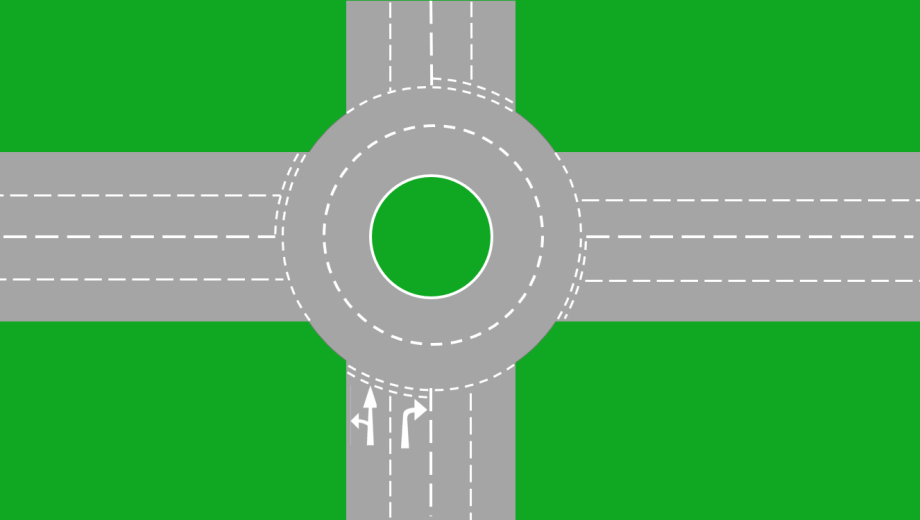
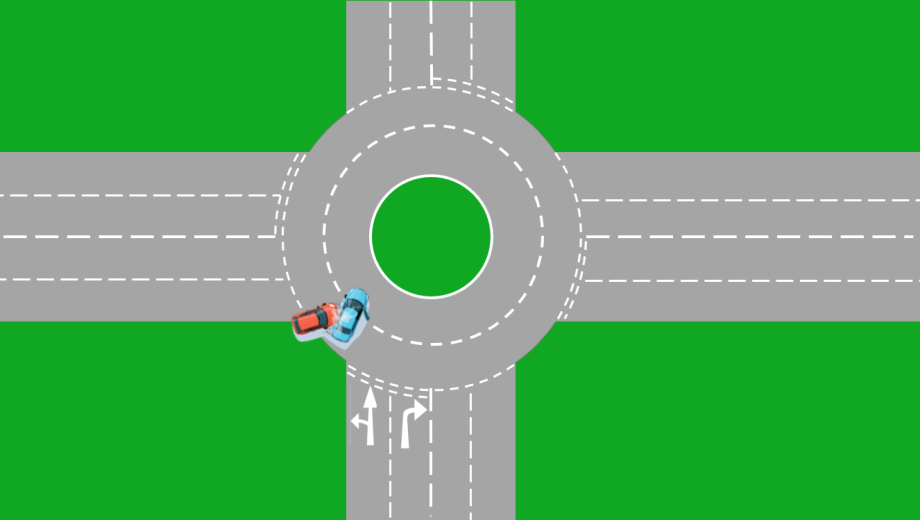
feat: added clock + car crash

Changed region(s): [[0.3043, 0.5538, 0.4261, 0.6769]]

diff --git a/script.js b/script.js
@@ -246,6 +246,44 @@ window.addEventListener("load", () => {
     }
   });
 
+  function showPopup() {
+    const popup = document.getElementById("timeUpPopup");
+    popup.style.opacity = 1;
+    popup.style.pointerEvents = "all";
+  }
+
+  let duration = 60; // seconds
+  let timerInterval;
+
+  function startTimer(seconds) {
+    duration = seconds;
+    updateDisplay();
+
+    timerInterval = setInterval(() => {
+      duration--;
+
+      updateDisplay();
+
+      if (duration <= 0) {
+        clearInterval(timerInterval);
+        showPopup();
+      }
+    }, 1000);
+  }
+
+  function updateDisplay() {
+    const minutes = Math.floor(duration / 60);
+    const seconds = duration % 60;
+
+    const formatted =
+      `${minutes.toString().padStart(2, "0")}:` +
+      `${seconds.toString().padStart(2, "0")}`;
+
+    document.getElementById("timer").textContent = formatted;
+  }
+
+  startTimer(90);
+
   function isClose(pos1, pos2, tolerance = 50) {
     return (
       Math.abs(pos1.x - pos2.x) < tolerance &&

diff --git a/style.css b/style.css
@@ -140,3 +140,55 @@ button {
   border-left: 8px solid blue;
   transform: translateY(-50%);
 }
+
+#timer {
+  position: fixed;
+  top: 20px;
+  right: 20px;
+  background: black;
+  color: red;
+  font-family: monospace;
+  font-size: 40px;
+  padding: 10px 20px;
+  border-radius: 8px;
+  box-shadow: 0 0 10px red;
+}
+
+#timeUpPopup {
+  position: fixed;
+  top: 0;
+  left: 0;
+  width: 100%;
+  height: 100%;
+  background: rgba(0, 0, 0, 0.8);
+  display: flex;
+  flex-direction: column;
+  gap: 32px;
+  align-items: center;
+  justify-content: center;
+  color: red;
+  font-size: 50px;
+  font-family: monospace;
+  opacity: 0;
+  pointer-events: none;
+  transition: opacity 0.5s ease;
+  z-index: 9999;
+}
+
+#timeUpPopup > p {
+  color: red;
+  font-size: 20px;
+  font-family: monospace;
+}
+
+#timeUpPopup > button {
+  color: black;
+  font-size: 20px;
+  font-family: monospace;
+  padding: 10px;
+}
+
+#suraccident {
+  height: 400px;
+  width: 400px;
+}

diff --git a/index.html b/index.html
@@ -36,6 +36,13 @@
           <img src="assets/image/icon/warning.png" alt="" />
         </button>
       </div>
+      <div id="timer">00:00</div>
+    </div>
+    <div id="timeUpPopup">
+      <img src="assets/image/suraccident.jpeg" id="suraccident" alt="" />
+      TEMPS ÉCOULÉ
+      <p>Le suraccident n'a pas pu être évité...</p>
+      <button onclick="location.reload()">REJOUER</button>
     </div>
   </body>
 </html>
